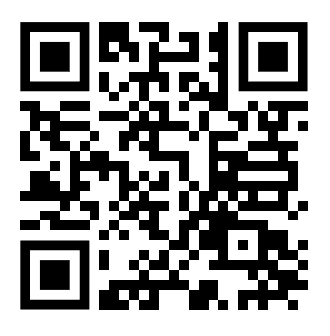
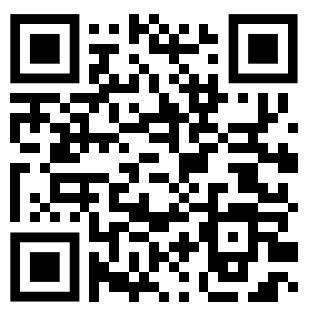
updated site

diff --git a/src/components/main-section.tsx b/src/components/main-section.tsx
@@ -24,11 +24,11 @@ const MainSection = () => {
       <PeopleTable />
 
       {/* QR Code */}
-      <img className="absolute top-[70%] left-5 h-[10rem] w-[10rem]" src="/assets/qr-code.png" />
+      <img className="absolute top-[65%] left-5 h-[14rem] w-[14rem]" src="/assets/qr-code.png" />
 
       {/* sign section */}
       <>
-        <div className="absolute top-[80%] right-10 text-[10px]">
+        <div className="absolute top-[80%] right-10 flex flex-col items-center text-[10px]">
           <p>Signature of the Revenue Officer</p>
           <p className="font-bold">14/07/2023</p>
         </div>

diff --git a/src/components/head-section.tsx b/src/components/head-section.tsx
@@ -10,7 +10,7 @@ const HeadSection = () => {
         className="absolute top-8 right-10 h-32 w-[6.5rem]"
       />
 
-      <div className="absolute top-36 left-[50%] -translate-x-[50%] text-[10px]">
+      <div className="absolute top-36 left-[50%] -translate-x-[50%] flex flex-col items-center text-[10px]">
         <p className="font-bold">FORM No. II</p>
         <p className="font-semibold italic">(See Rule 3)</p>
         <p className="font-bold">GOVERNMENT OF ODISHA</p>
